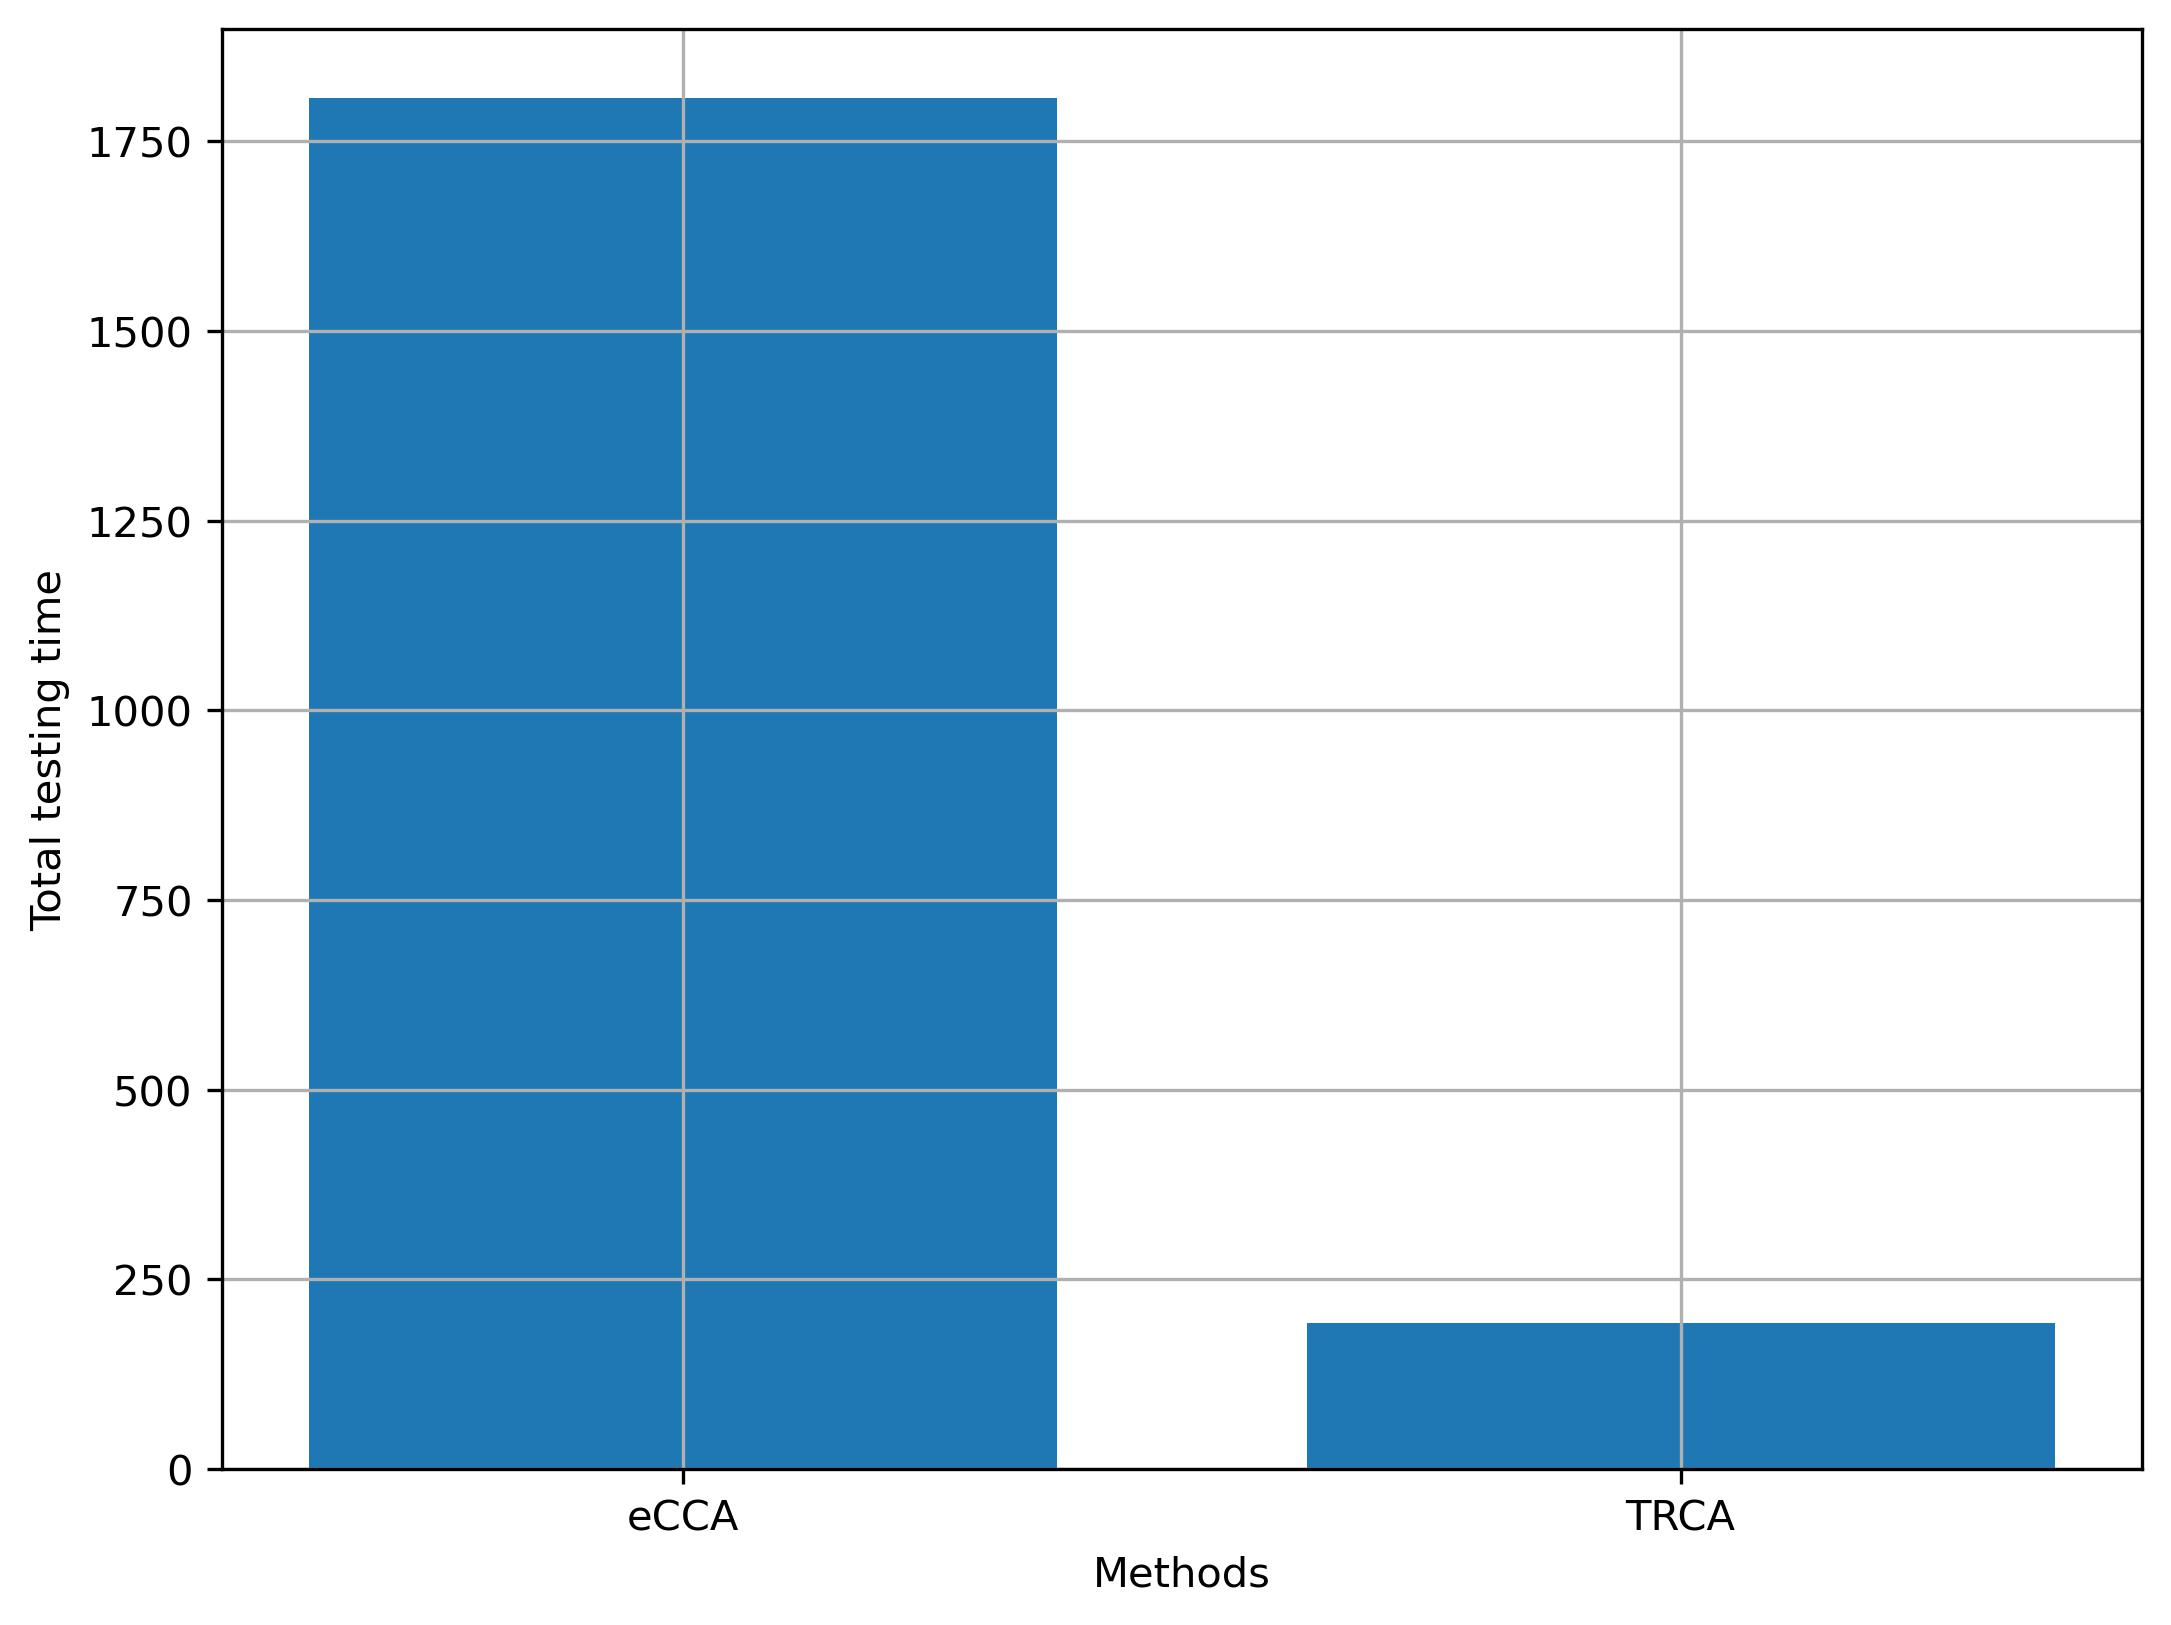
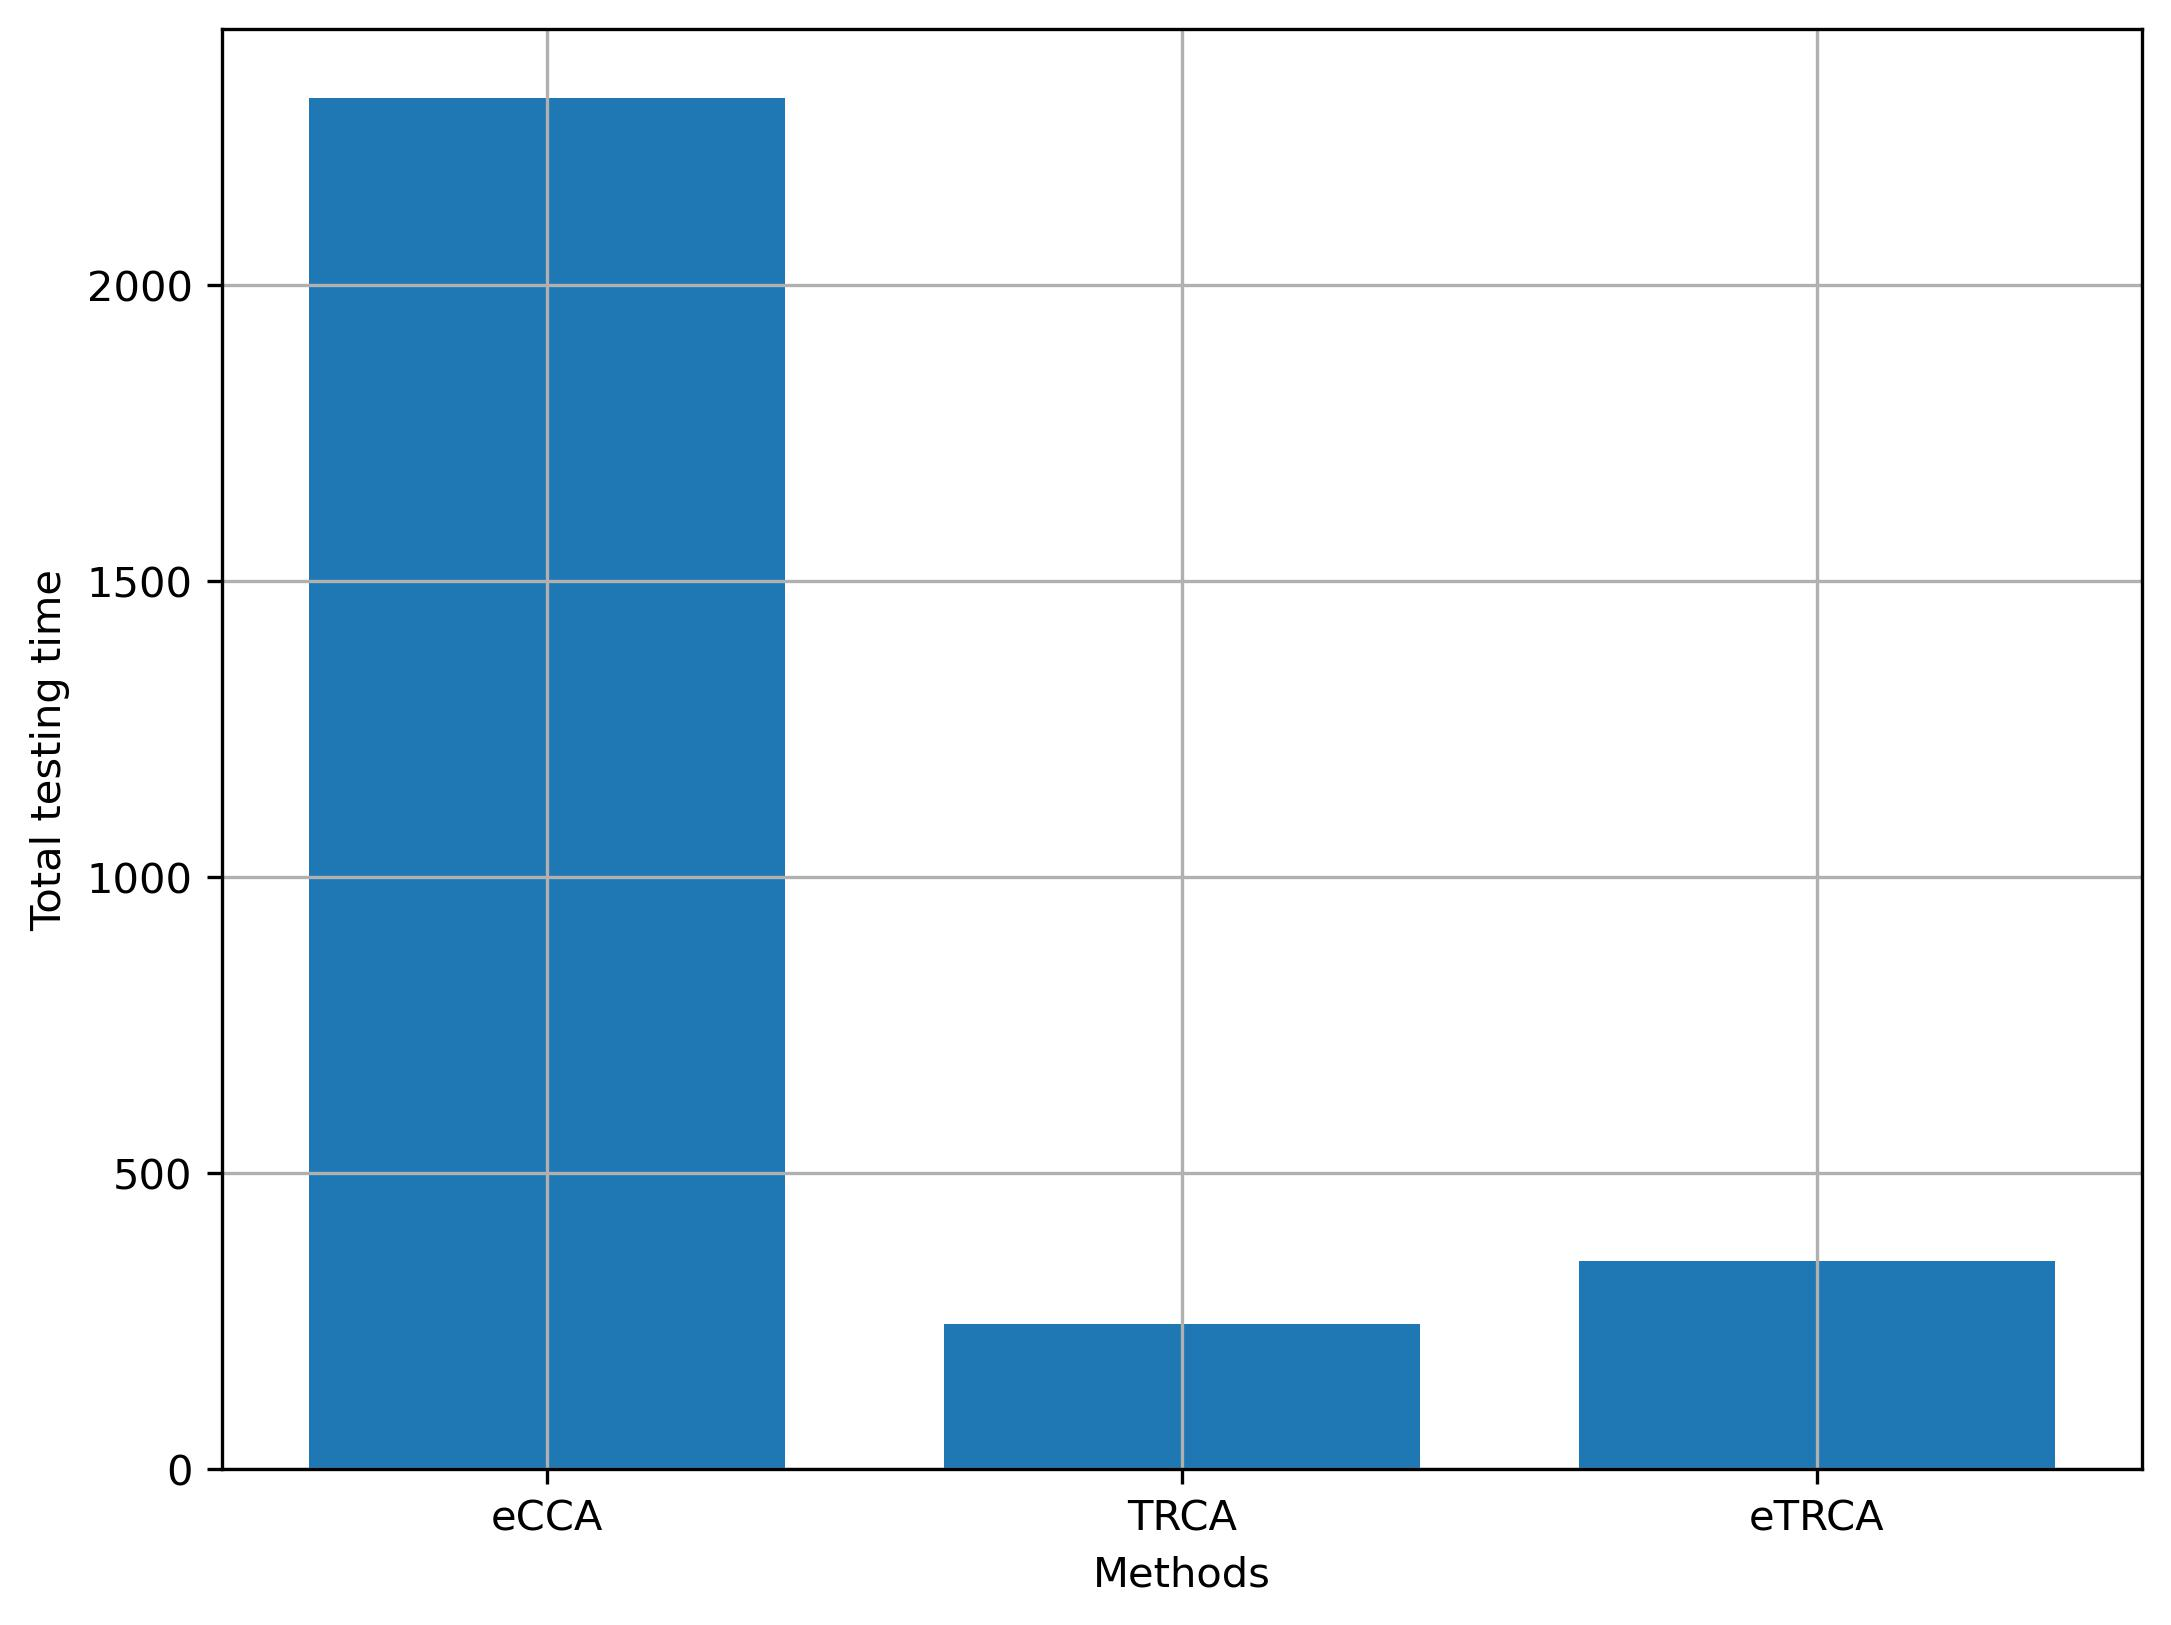
Add trca in beta and benchmark datasets results

diff --git a/SSVEPAnalysisToolbox/algorithms/trca.py b/SSVEPAnalysisToolbox/algorithms/trca.py
@@ -72,12 +72,6 @@ def _r_corr(X: ndarray,
         tmp = X[k,:,:]
         for i in range(stimulus_num):
             Y_tmp = Y[i][k,:,:]
-            # if U.shape[1] == stimulus_num:
-            #     U_i = i
-            # elif U.shape[1] == 1:
-            #     U_i = 0
-            # else:
-            #     raise ValueError("Shape of U is not correct")
             a = U[k,i,:,:].T @ tmp
             b = U[k,i,:,:].T @ Y_tmp
             a = np.reshape(a, (-1))
@@ -208,17 +202,6 @@ class ETRCA(BaseModel):
             for stim_idx, u in enumerate(U):
                 U_trca[filterbank_idx, 0, :, stim_idx] = u[:channel_num,0]
         U_trca = np.repeat(U_trca, repeats = stimulus_num, axis = 1)
-        # U_trca = np.transpose(U_trca, (0,3,2,1))
-        # tmp = np.repeat(U_trca, stimulus_num, axis = 1)
-
-        # U_trca = np.zeros((filterbank_num, stimulus_num, channel_num, n_component))
-        # for stim_idx, u in enumerate(U):
-        #     try:
-        #         U_trca[:, stim_idx, :, 0] = tmp[:, stim_idx, :, stim_idx]
-        #     except IndexError:
-        #         print(tmp.shape)
-        #         print(U_trca.shape)
-        #         print(stim_idx)
 
         self.model['U'] = U_trca
 

diff --git a/demo/TRCA_benchmarkdataset.py b/demo/TRCA_benchmarkdataset.py
@@ -5,7 +5,7 @@ sys.path.append('..')
 from SSVEPAnalysisToolbox.datasets.benchmarkdataset import BenchmarkDataset
 from SSVEPAnalysisToolbox.utils.benchmarkpreprocess import preprocess, filterbank, suggested_ch, suggested_weights_filterbank
 from SSVEPAnalysisToolbox.algorithms.cca import ECCA
-from SSVEPAnalysisToolbox.algorithms.trca import TRCA
+from SSVEPAnalysisToolbox.algorithms.trca import TRCA, ETRCA
 from SSVEPAnalysisToolbox.evaluator.baseevaluator import BaseEvaluator, gen_trials_onedataset_individual_diffsiglen
 from SSVEPAnalysisToolbox.evaluator.performance import cal_performance_onedataset_individual_diffsiglen
 from SSVEPAnalysisToolbox.utils.io import savedata, loaddata
@@ -41,7 +41,8 @@ trial_container = gen_trials_onedataset_individual_diffsiglen(dataset_idx = 0,
 weights_filterbank = suggested_weights_filterbank()
 model_container = [
                    ECCA(weights_filterbank = weights_filterbank),
-                   TRCA(weights_filterbank = weights_filterbank)
+                   TRCA(weights_filterbank = weights_filterbank),
+                   ETRCA(weights_filterbank = weights_filterbank)
                   ]
 
 # Evaluate models

diff --git a/demo/TRCA_betadataset.py b/demo/TRCA_betadataset.py
@@ -5,7 +5,7 @@ sys.path.append('..')
 from SSVEPAnalysisToolbox.datasets.betadataset import BETADataset
 from SSVEPAnalysisToolbox.utils.benchmarkpreprocess import preprocess, filterbank, suggested_ch, suggested_weights_filterbank
 from SSVEPAnalysisToolbox.algorithms.cca import ECCA
-from SSVEPAnalysisToolbox.algorithms.trca import TRCA
+from SSVEPAnalysisToolbox.algorithms.trca import TRCA, ETRCA
 from SSVEPAnalysisToolbox.evaluator.baseevaluator import BaseEvaluator, gen_trials_onedataset_individual_diffsiglen
 from SSVEPAnalysisToolbox.evaluator.performance import cal_performance_onedataset_individual_diffsiglen
 from SSVEPAnalysisToolbox.utils.io import savedata, loaddata
@@ -41,7 +41,8 @@ trial_container = gen_trials_onedataset_individual_diffsiglen(dataset_idx = 0,
 weights_filterbank = suggested_weights_filterbank()
 model_container = [
                    ECCA(weights_filterbank = weights_filterbank),
-                   TRCA(weights_filterbank = weights_filterbank)
+                   TRCA(weights_filterbank = weights_filterbank),
+                   ETRCA(weights_filterbank = weights_filterbank)
                   ]
 
 # Evaluate models
